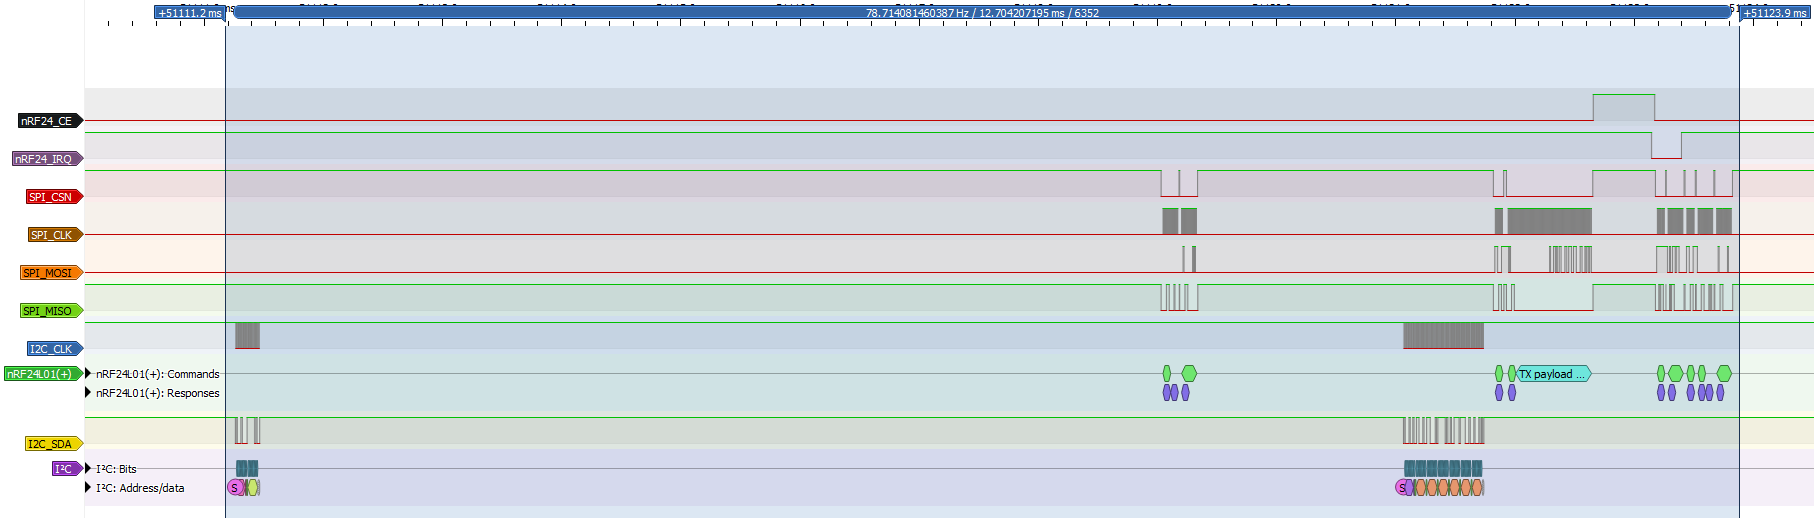
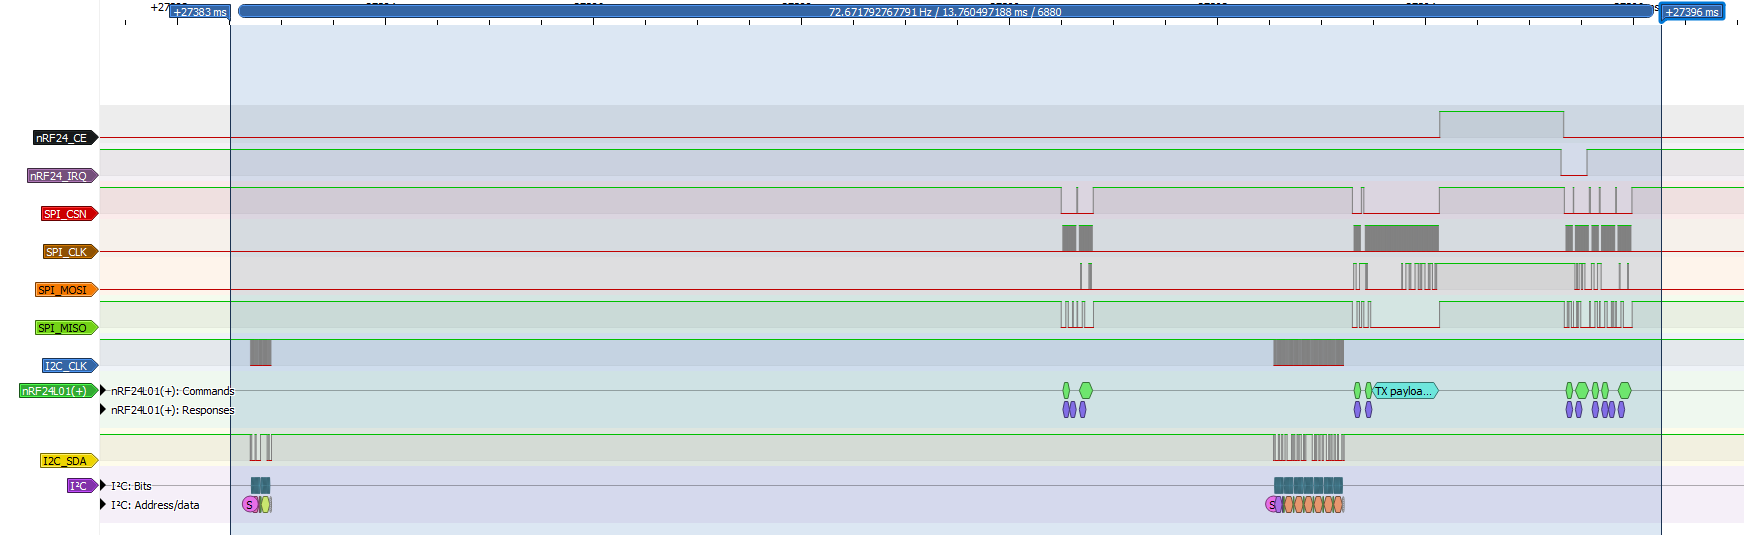
Improve HAMS node & hub FW, fix bugs
Set node and hub nRF24 data rate to 250 kbps.
Fix bug: incorrect register bit field position values in nRF24 driver
header.
Fix bug: incorrect atmospheric pressure units.
Rename node "Detsky pok." to "Detsky pokoj".
Shorten node debug mode text.

Changed region(s): [[0.0, 0.0, 1.0, 1.0], [0.6193, 0.3398, 0.6502, 0.3707]]

diff --git a/hub/firmware/main/nrf24l01p.h b/hub/firmware/main/nrf24l01p.h
@@ -96,54 +96,54 @@
 #define NRF24L01P_REG_EN_RXADDR_ERX_P1 (1U << 1)
 #define NRF24L01P_REG_EN_RXADDR_ERX_P0 (1U << 0)
 
-#define NRF24L01P_REG_SETUP_AW_AW_POS (1U << 0)
+#define NRF24L01P_REG_SETUP_AW_AW_POS 0
 #define NRF24L01P_REG_SETUP_AW_AW_MASK (0b11 << 0)
 
-#define NRF24L01P_REG_SETUP_RETR_ARD_POS (1U << 4)
+#define NRF24L01P_REG_SETUP_RETR_ARD_POS 4
 #define NRF24L01P_REG_SETUP_RETR_ARD_MASK (0b1111 << 4)
-#define NRF24L01P_REG_SETUP_RETR_ARC_POS (1U << 0)
+#define NRF24L01P_REG_SETUP_RETR_ARC_POS 0
 #define NRF24L01P_REG_SETUP_RETR_ARC_MASK (0b1111 << 0)
 
-#define NRF24L01P_REG_RF_CH_POS (1U << 0)
+#define NRF24L01P_REG_RF_CH_POS 0
 #define NRF24L01P_REG_RF_CH_MASK (0b1111111 << 0)
 
 #define NRF24L01P_REG_RF_SETUP_CONT_WAVE (1U << 7)
 #define NRF24L01P_REG_RF_SETUP_RF_DR_LOW (1U << 5)
 #define NRF24L01P_REG_RF_SETUP_PLL_LOCK (1U << 4)
 #define NRF24L01P_REG_RF_SETUP_RF_DR_HIGH (1U << 3)
-#define NRF24L01P_REG_RF_SETUP_RF_PWR_POS (1U << 1)
+#define NRF24L01P_REG_RF_SETUP_RF_PWR_POS 1
 #define NRF24L01P_REG_RF_SETUP_RF_PWR_MASK (0b11 << 1)
 
 #define NRF24L01P_REG_STATUS_RX_DR (1U << 6)
 #define NRF24L01P_REG_STATUS_TX_DS (1U << 5)
 #define NRF24L01P_REG_STATUS_MAX_RT (1U << 4)
-#define NRF24L01P_REG_STATUS_RX_P_NO_POS (1U << 1)
+#define NRF24L01P_REG_STATUS_RX_P_NO_POS 1
 #define NRF24L01P_REG_STATUS_RX_P_NO_MASK (0b111 << 1)
 #define NRF24L01P_REG_STATUS_TX_FULL (1U << 0)
 
-#define NRF24L01P_REG_OBSERVE_TX_PLOS_CNT_POS (1U << 4)
+#define NRF24L01P_REG_OBSERVE_TX_PLOS_CNT_POS 4
 #define NRF24L01P_REG_OBSERVE_TX_PLOS_CNT_MASK (0b1111 << 4)
-#define NRF24L01P_REG_OBSERVE_TX_ARC_CNT_POS (1U << 0)
+#define NRF24L01P_REG_OBSERVE_TX_ARC_CNT_POS 0
 #define NRF24L01P_REG_OBSERVE_TX_ARC_CNT_MASK (0b1111 << 0)
 
 #define NRF24L01P_REG_RPD_RPD (1U << 0)
 
-#define NRF24L01P_REG_RX_PW_P0_POS (1U << 0)
+#define NRF24L01P_REG_RX_PW_P0_POS 0
 #define NRF24L01P_REG_RX_PW_P0_MASK (0b111111 << 0)
 
-#define NRF24L01P_REG_RX_PW_P1_POS (1U << 0)
+#define NRF24L01P_REG_RX_PW_P1_POS 0
 #define NRF24L01P_REG_RX_PW_P1_MASK (0b111111 << 0)
 
-#define NRF24L01P_REG_RX_PW_P2_POS (1U << 0)
+#define NRF24L01P_REG_RX_PW_P2_POS 0
 #define NRF24L01P_REG_RX_PW_P2_MASK (0b111111 << 0)
 
-#define NRF24L01P_REG_RX_PW_P3_POS (1U << 0)
+#define NRF24L01P_REG_RX_PW_P3_POS 0
 #define NRF24L01P_REG_RX_PW_P3_MASK (0b111111 << 0)
 
-#define NRF24L01P_REG_RX_PW_P4_POS (1U << 0)
+#define NRF24L01P_REG_RX_PW_P4_POS 0
 #define NRF24L01P_REG_RX_PW_P4_MASK (0b111111 << 0)
 
-#define NRF24L01P_REG_RX_PW_P5_POS (1U << 0)
+#define NRF24L01P_REG_RX_PW_P5_POS 0
 #define NRF24L01P_REG_RX_PW_P5_MASK (0b111111 << 0)
 
 #define NRF24L01P_REG_FIFO_STATUS_TX_REUSE (1U << 6)

diff --git a/node/firmware/STM32L031K6/Core/Inc/nrf24l01p.h b/node/firmware/STM32L031K6/Core/Inc/nrf24l01p.h
@@ -96,54 +96,54 @@
 #define NRF24L01P_REG_EN_RXADDR_ERX_P1 (1U << 1)
 #define NRF24L01P_REG_EN_RXADDR_ERX_P0 (1U << 0)
 
-#define NRF24L01P_REG_SETUP_AW_AW_POS (1U << 0)
+#define NRF24L01P_REG_SETUP_AW_AW_POS 0
 #define NRF24L01P_REG_SETUP_AW_AW_MASK (0b11 << 0)
 
-#define NRF24L01P_REG_SETUP_RETR_ARD_POS (1U << 4)
+#define NRF24L01P_REG_SETUP_RETR_ARD_POS 4
 #define NRF24L01P_REG_SETUP_RETR_ARD_MASK (0b1111 << 4)
-#define NRF24L01P_REG_SETUP_RETR_ARC_POS (1U << 0)
+#define NRF24L01P_REG_SETUP_RETR_ARC_POS 0
 #define NRF24L01P_REG_SETUP_RETR_ARC_MASK (0b1111 << 0)
 
-#define NRF24L01P_REG_RF_CH_POS (1U << 0)
+#define NRF24L01P_REG_RF_CH_POS 0
 #define NRF24L01P_REG_RF_CH_MASK (0b1111111 << 0)
 
 #define NRF24L01P_REG_RF_SETUP_CONT_WAVE (1U << 7)
 #define NRF24L01P_REG_RF_SETUP_RF_DR_LOW (1U << 5)
 #define NRF24L01P_REG_RF_SETUP_PLL_LOCK (1U << 4)
 #define NRF24L01P_REG_RF_SETUP_RF_DR_HIGH (1U << 3)
-#define NRF24L01P_REG_RF_SETUP_RF_PWR_POS (1U << 1)
+#define NRF24L01P_REG_RF_SETUP_RF_PWR_POS 1
 #define NRF24L01P_REG_RF_SETUP_RF_PWR_MASK (0b11 << 1)
 
 #define NRF24L01P_REG_STATUS_RX_DR (1U << 6)
 #define NRF24L01P_REG_STATUS_TX_DS (1U << 5)
 #define NRF24L01P_REG_STATUS_MAX_RT (1U << 4)
-#define NRF24L01P_REG_STATUS_RX_P_NO_POS (1U << 1)
+#define NRF24L01P_REG_STATUS_RX_P_NO_POS 1
 #define NRF24L01P_REG_STATUS_RX_P_NO_MASK (0b111 << 1)
 #define NRF24L01P_REG_STATUS_TX_FULL (1U << 0)
 
-#define NRF24L01P_REG_OBSERVE_TX_PLOS_CNT_POS (1U << 4)
+#define NRF24L01P_REG_OBSERVE_TX_PLOS_CNT_POS 4
 #define NRF24L01P_REG_OBSERVE_TX_PLOS_CNT_MASK (0b1111 << 4)
-#define NRF24L01P_REG_OBSERVE_TX_ARC_CNT_POS (1U << 0)
+#define NRF24L01P_REG_OBSERVE_TX_ARC_CNT_POS 0
 #define NRF24L01P_REG_OBSERVE_TX_ARC_CNT_MASK (0b1111 << 0)
 
 #define NRF24L01P_REG_RPD_RPD (1U << 0)
 
-#define NRF24L01P_REG_RX_PW_P0_POS (1U << 0)
+#define NRF24L01P_REG_RX_PW_P0_POS 0
 #define NRF24L01P_REG_RX_PW_P0_MASK (0b111111 << 0)
 
-#define NRF24L01P_REG_RX_PW_P1_POS (1U << 0)
+#define NRF24L01P_REG_RX_PW_P1_POS 0
 #define NRF24L01P_REG_RX_PW_P1_MASK (0b111111 << 0)
 
-#define NRF24L01P_REG_RX_PW_P2_POS (1U << 0)
+#define NRF24L01P_REG_RX_PW_P2_POS 0
 #define NRF24L01P_REG_RX_PW_P2_MASK (0b111111 << 0)
 
-#define NRF24L01P_REG_RX_PW_P3_POS (1U << 0)
+#define NRF24L01P_REG_RX_PW_P3_POS 0
 #define NRF24L01P_REG_RX_PW_P3_MASK (0b111111 << 0)
 
-#define NRF24L01P_REG_RX_PW_P4_POS (1U << 0)
+#define NRF24L01P_REG_RX_PW_P4_POS 0
 #define NRF24L01P_REG_RX_PW_P4_MASK (0b111111 << 0)
 
-#define NRF24L01P_REG_RX_PW_P5_POS (1U << 0)
+#define NRF24L01P_REG_RX_PW_P5_POS 0
 #define NRF24L01P_REG_RX_PW_P5_MASK (0b111111 << 0)
 
 #define NRF24L01P_REG_FIFO_STATUS_TX_REUSE (1U << 6)

diff --git a/hub/firmware/main/sensor_control.c b/hub/firmware/main/sensor_control.c
@@ -310,10 +310,10 @@ static int8_t measure_bme280(void)
 
     bme280_status = bme280_read_measurement(&bme280_device, &bme280_data);
     ESP_LOGI(TAG, "[BME280] Read Data, Temperature = %.2f °C, Rel. humidity = %.2f %%, Pressure = %.1f hPa, status = %d",
-             bme280_data.temperature / 100.0, bme280_data.humidity / 1000.0, bme280_data.pressure / 10.0, bme280_status);
+             bme280_data.temperature / 100.0, bme280_data.humidity / 1000.0, bme280_data.pressure / 1000.0, bme280_status);
     RETURN_IF_NOT_ZERO((int8_t)bme280_status, sensor_hub_data.pressure_status, sensor_hub_data.pressure_errors);
 
-    sensor_hub_data.pressure_hPa = bme280_data.pressure / 10.0;
+    sensor_hub_data.pressure_hPa = bme280_data.pressure / 1000.0;
     gettimeofday(&current_time, NULL);
     sensor_hub_data.pressure_timestamp = current_time;
     sensor_hub_data.pressure_measurements++;
@@ -345,7 +345,7 @@ static int8_t measure_scd4x(void)
     if (sensor_hub_data.co2_scheduled_correction == true)
     {
         scd4x_status = scd4x_perform_forced_recalibration(&scd4x_device, 425, &sensor_hub_data.co2_frc_correction);
-        ESP_LOGI(TAG, "[SCD4x] Perform Forced Recalibration, correction = %ls, status = %d\n", sensor_hub_data.co2_frc_correction, scd4x_status);
+        ESP_LOGI(TAG, "[SCD4x] Perform Forced Recalibration, correction = %d, status = %d\n", sensor_hub_data.co2_frc_correction, scd4x_status);
         RETURN_IF_NOT_ZERO((int8_t)scd4x_status, sensor_hub_data.co2_status, sensor_hub_data.co2_errors);
         sensor_hub_data.co2_scheduled_correction = false;
     }

diff --git a/hub/firmware/main/display_control.cpp b/hub/firmware/main/display_control.cpp
@@ -374,7 +374,7 @@ void update_display(HamsData *data)
         {
             sprintf(string_buffer, "%s*", NODE_NAMES[i]);
         }
-        display.draw_aligned_text(&FreeSans12pt7b, (GDEY075T7_WIDTH / 2) + 5, DISPLAY_VSEC0_HEIGHT + (2 + i) * DISPLAY_TEXT_12PT_YOFFSET, 130, DISPLAY_TEXT_12PT_YOFFSET, SHOW_DEBUG_RECTS, SHOW_DEBUG_RECTS, TEXT_ALIGNMENT_LEFT, string_buffer);
+        display.draw_aligned_text(&FreeSans12pt7b, (GDEY075T7_WIDTH / 2) + 5, DISPLAY_VSEC0_HEIGHT + (2 + i) * DISPLAY_TEXT_12PT_YOFFSET, 135, DISPLAY_TEXT_12PT_YOFFSET, SHOW_DEBUG_RECTS, SHOW_DEBUG_RECTS, TEXT_ALIGNMENT_LEFT, string_buffer);
 
         if (is_up_to_date)
         {
@@ -790,8 +790,8 @@ void show_debug_info(HamsData *data)
     for (int i = 0; i < NODE_COUNT; i++)
     {
         get_timestamp_string(&data->nodes[i].timestamp, timestamp_buffer_1);
-        sprintf(string_buffer, "Node %d [%s]: last = %s, count = %ld, vdd = %.3f V, status (app/SHT/nRF) = %d/%d/%d\n",
-                i + 1, NODE_NAMES[i], timestamp_buffer_1, data->nodes[i].rx_count, data->nodes[i].vdda_v,
+        sprintf(string_buffer, "Node %d [%s]: last = %s, count = %ld, vdd = %.3f V, app/SHT/nRF = %d/%d/%d\n",
+                i, NODE_NAMES[i], timestamp_buffer_1, data->nodes[i].rx_count, data->nodes[i].vdda_v,
                 data->nodes[i].app_status, data->nodes[i].sht4x_status, data->nodes[i].nrf24_status);
         display.print(string_buffer);
     }

diff --git a/node/firmware/STM32L031K6/Core/Src/app.c b/node/firmware/STM32L031K6/Core/Src/app.c
@@ -81,7 +81,7 @@
 
 #define PHASE1_LENGTH SHT4X_MEAS_HIGH_PREC_PERIOD_US - NRF24L01P_POWER_UP_DELAY_US
 #define PHASE2_LENGTH NRF24L01P_POWER_UP_DELAY_US
-#define NRF24_IRQ_WAIT_TIME 5000
+#define NRF24_IRQ_WAIT_TIME 50000
 
 /* ---------------- Enums --------------------*/
 typedef enum AppState
@@ -149,7 +149,7 @@ static Nrf24l01pDevice nrf24_device = {
 	.config = {
 		.channel_MHz = 2500,
 		.address_width = 5,
-		.data_rate = NRF24L01P_1MBPS,
+		.data_rate = NRF24L01P_250KBPS,
 		.crc_length = NRF24L01P_CRC_1BYTE,
 		.enable_irq_tx_ds = true,
 		.enable_irq_max_rt = true,

diff --git a/node/firmware/STM32L031K6/Core/Inc/app.h b/node/firmware/STM32L031K6/Core/Inc/app.h
@@ -3,7 +3,7 @@
 
 #define NRF24_DATA_LENGTH 10 // bytes
 #define NODE_ID 0
-#define NRF24_AUTO_RETRANSMIT_DELAY (2 * NODE_ID) + 1 // multiples of 250 us, min. value is 1
+#define NRF24_AUTO_RETRANSMIT_DELAY (2 * NODE_ID) + 2 // multiples of 250 us, min. value is 1
 #define RTC_WAKE_UP_PERIOD_S 60                       // min. 1 second
 
 void app_setup(void);

diff --git a/hub/firmware/main/radio_control.c b/hub/firmware/main/radio_control.c
@@ -33,7 +33,7 @@ static Nrf24l01pDevice nrf24_device = {
         .address_width = 5,
         .channel_MHz = 2500,
         .crc_length = NRF24L01P_CRC_1BYTE,
-        .data_rate = NRF24L01P_1MBPS,
+        .data_rate = NRF24L01P_250KBPS,
         .enable_irq_rx_dr = true,
         .enable_irq_max_rt = true,
         .enable_irq_tx_ds = true,

diff --git a/hub/firmware/main/node_constants.h b/hub/firmware/main/node_constants.h
@@ -14,7 +14,7 @@
 #define NODE2_NAME "Pracovna"
 #define NODE2_ADDRESS 0xC3
 
-#define NODE3_NAME "Detsky pok."
+#define NODE3_NAME "Detsky pokoj"
 #define NODE3_ADDRESS 0xC4
 
 #define NODE4_NAME "Koupelna"
